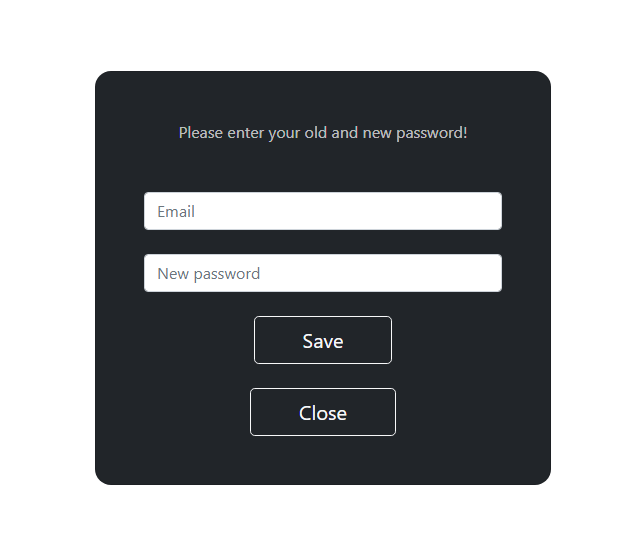
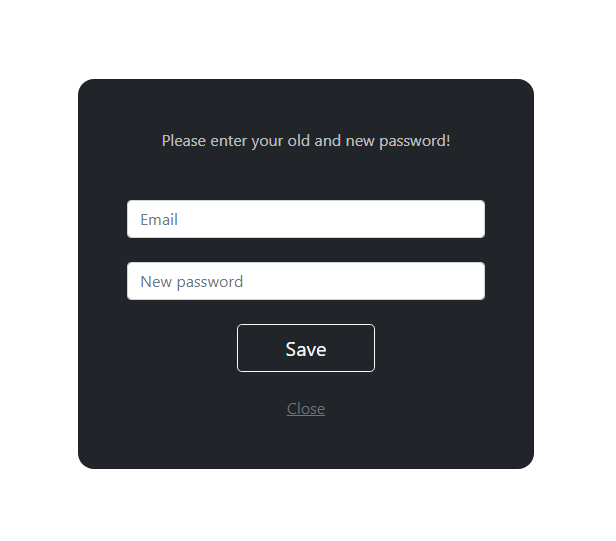
fixed bugs

diff --git a/Task_19/index.html b/Task_19/index.html
@@ -69,7 +69,7 @@
                 </div>
                 
                 <div class="d-flex justify-content-center mt-4">
-                  <button class="btn btn-outline-light btn-lg px-5" type="submit" id="typeButtonCloseForm">Close</button>
+                  <a id="typeButtonCloseForm" class="text-muted" href="#!">Close</a>
                 </div>
 
               </div>
